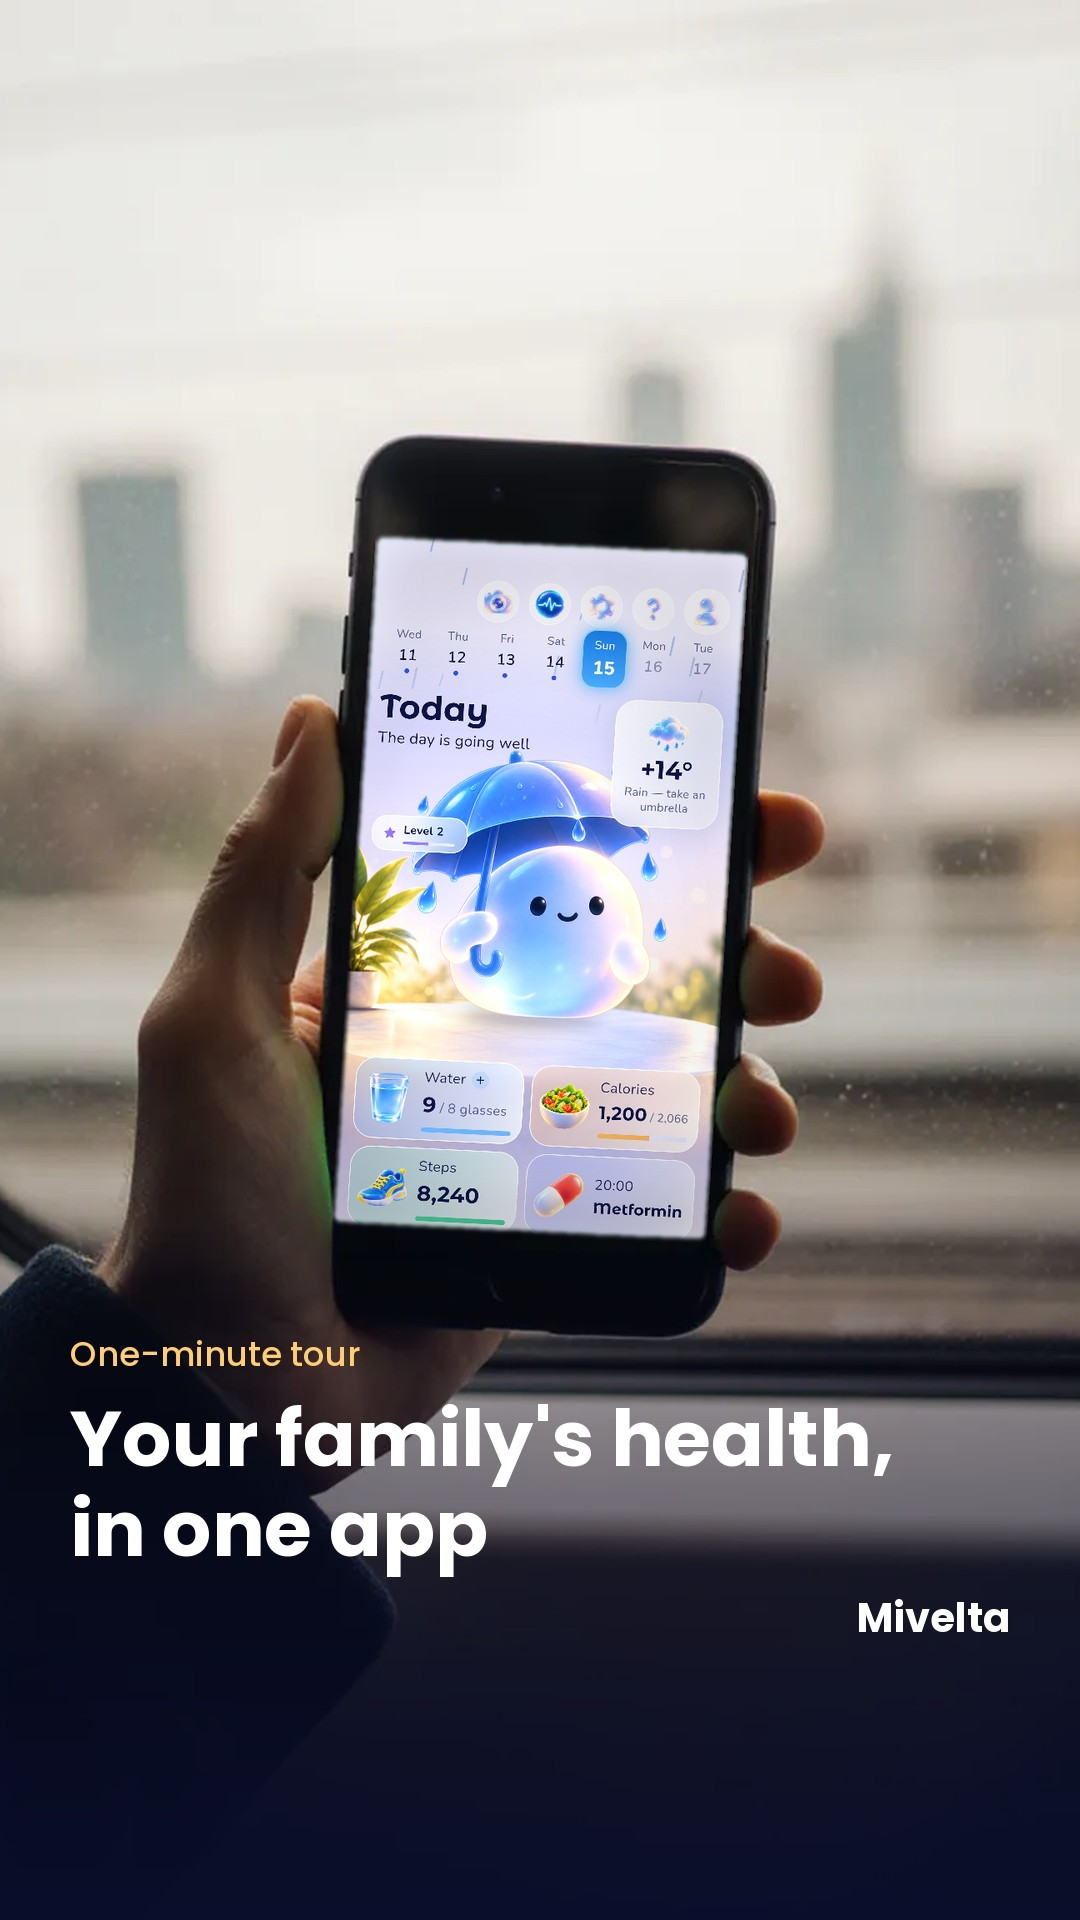
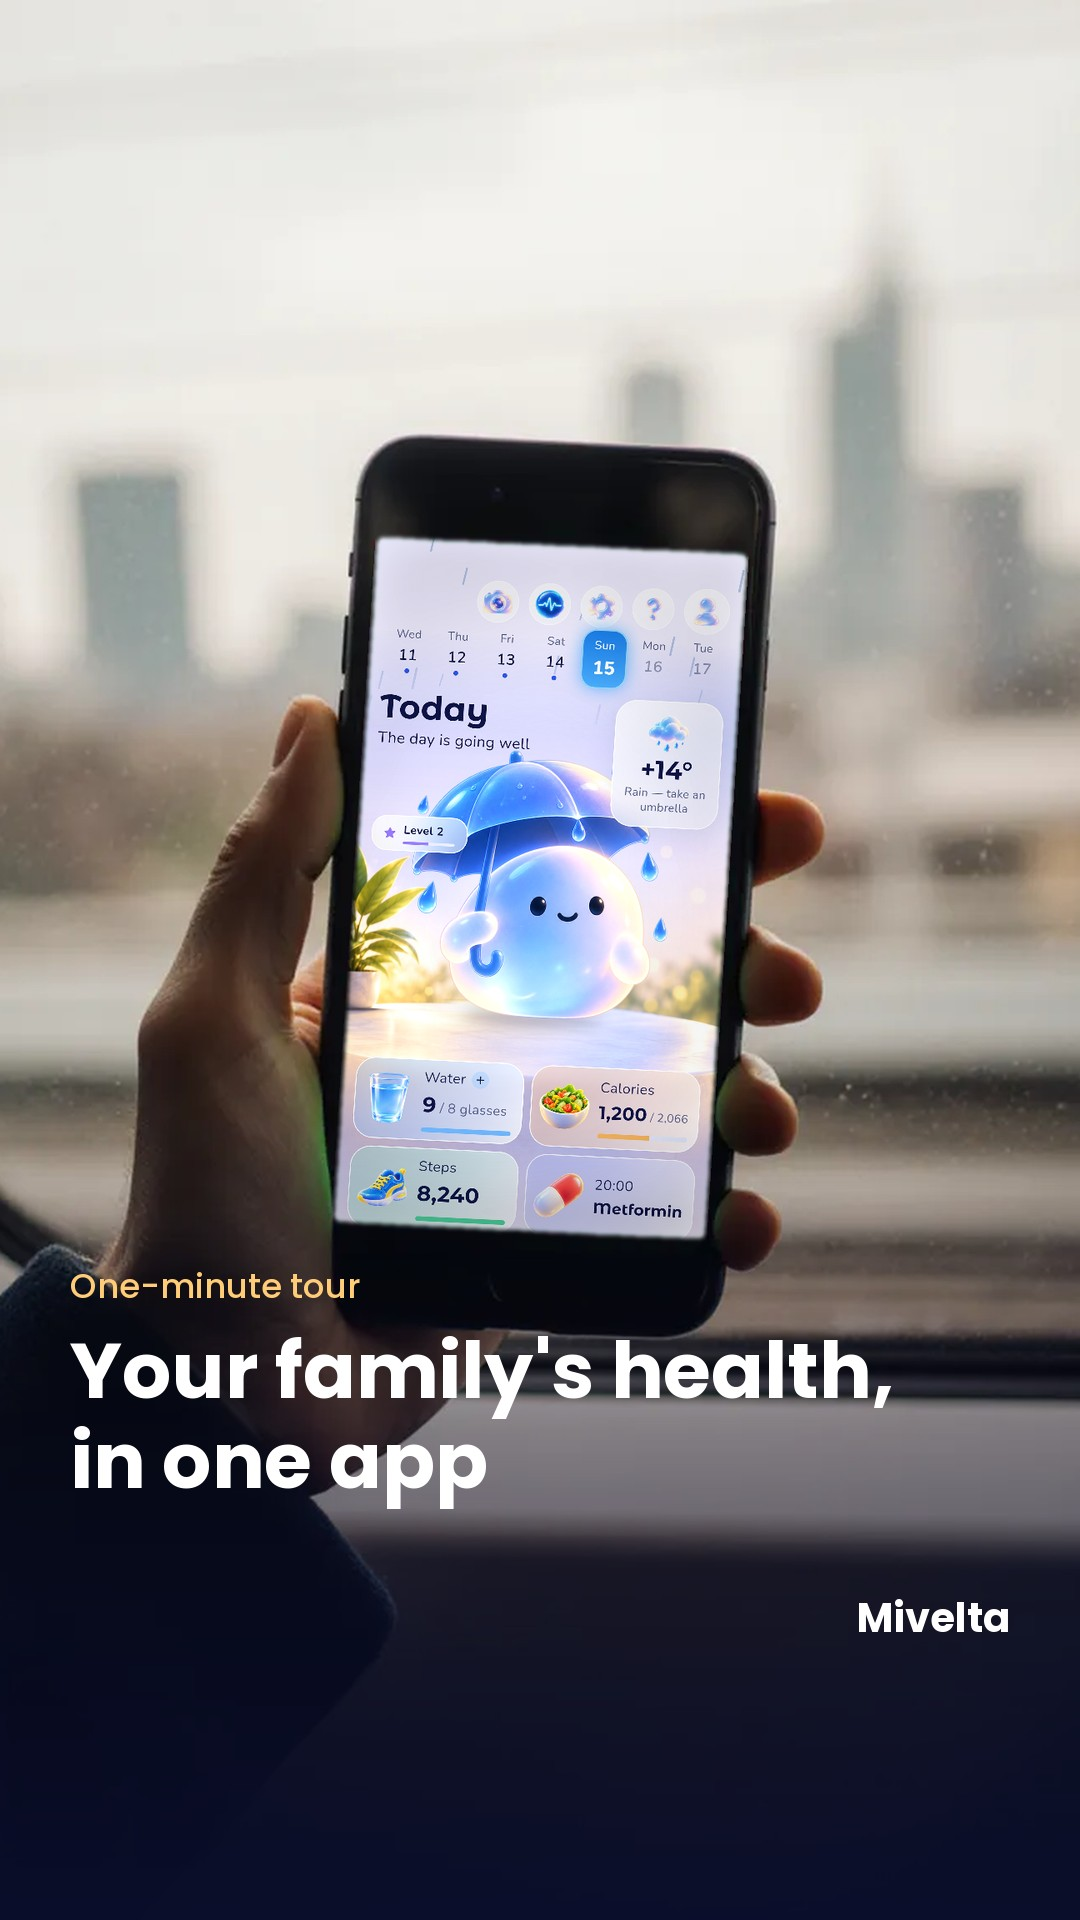
Reel covers: the words clear of the view counter on the profile grid
Claude-Session: https://claude.ai/code/session_01WfY46PZ3Y6DVex8swwpvyy

Changed region(s): [[0.0611, 0.6562, 0.825, 0.8438]]

diff --git a/scripts/make_week_2026_11_21.py b/scripts/make_week_2026_11_21.py
@@ -40,7 +40,7 @@ words(c, 70, 1010, '150 minutes a week · WHO', '22 minutes a day.\nBetter toget
 # covers for the published reels, 1080x1920; the words sit inside the middle 3:4 that a profile grid shows
 R = (1080, 1920)
 p, q = on_screen('hand_train_11.webp', 'today.png'); c = frame(p, R, centre=q[:, 0].mean()); shade(c, bottom=0.94, start=0.42)
-words(c, 70, 1330, 'One-minute tour', "Your family's health,\nin one app"); mark(c, y=1590); save(c, 'posts/2026-11-15/cover_tour_photo.jpg')
+words(c, 70, 1262, 'One-minute tour', "Your family's health,\nin one app"); mark(c, y=1590); save(c, 'posts/2026-11-15/cover_tour_photo.jpg')
 p, q = on_screen('hand_home_3.webp', 'lab_result.png'); c = frame(p, R, centre=q[:, 0].mean()); shade(c, bottom=0.94, start=0.42)
-words(c, 70, 1330, 'Lab results', 'A lab sheet,\nin plain words'); mark(c, y=1590); save(c, 'posts/2026-11-17/cover_labs_photo.jpg')
+words(c, 70, 1262, 'Lab results', 'A lab sheet,\nin plain words'); mark(c, y=1590); save(c, 'posts/2026-11-17/cover_labs_photo.jpg')
 print('ok')
